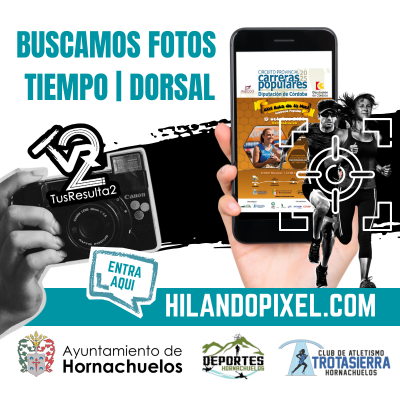
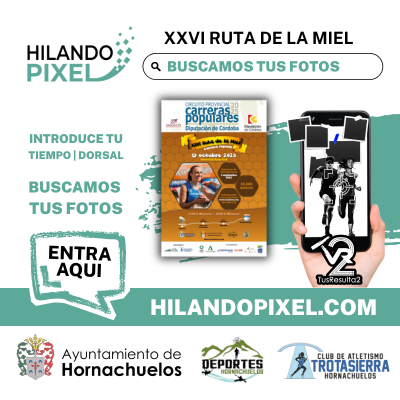
d

diff --git a/index.html b/index.html
@@ -21,13 +21,14 @@
 
     <div class="">
         <div class="card custom-dark-greyblue">
-            <p>Entra y descarga tus fotos - usa el buscador por tiempo que encontrarás en cada carrera</p>
+            <p>Entra y descarga tus fotos - usa el buscador por tiempo | dorsal que encontrarás en cada carrera</p>
             <section id="button-container">
                 <a href="/subidaalasermitas2025/resultados" class="button-link custom-black">XII Subida a las Ermitas Córdoba 14/12/2025</a>
             </section>
             <section id="button-container">
                 <a href="/rutadelamiel2025/resultados" class="button-link custom-black">XXVI Ruta de la Miel Hornachuelos 19/10/2025</a>
             </section>
+            <p>.</p>
         </div>
         <img class="width-full" src="./preview.png" />
 

diff --git a/assets/style.css b/assets/style.css
@@ -4,8 +4,8 @@
 }
 
 .custom-black {
-    background: black !important;
-    color: white !important;
+    color: black !important;
+    background: white !important;
 }
 
 .width-full {
